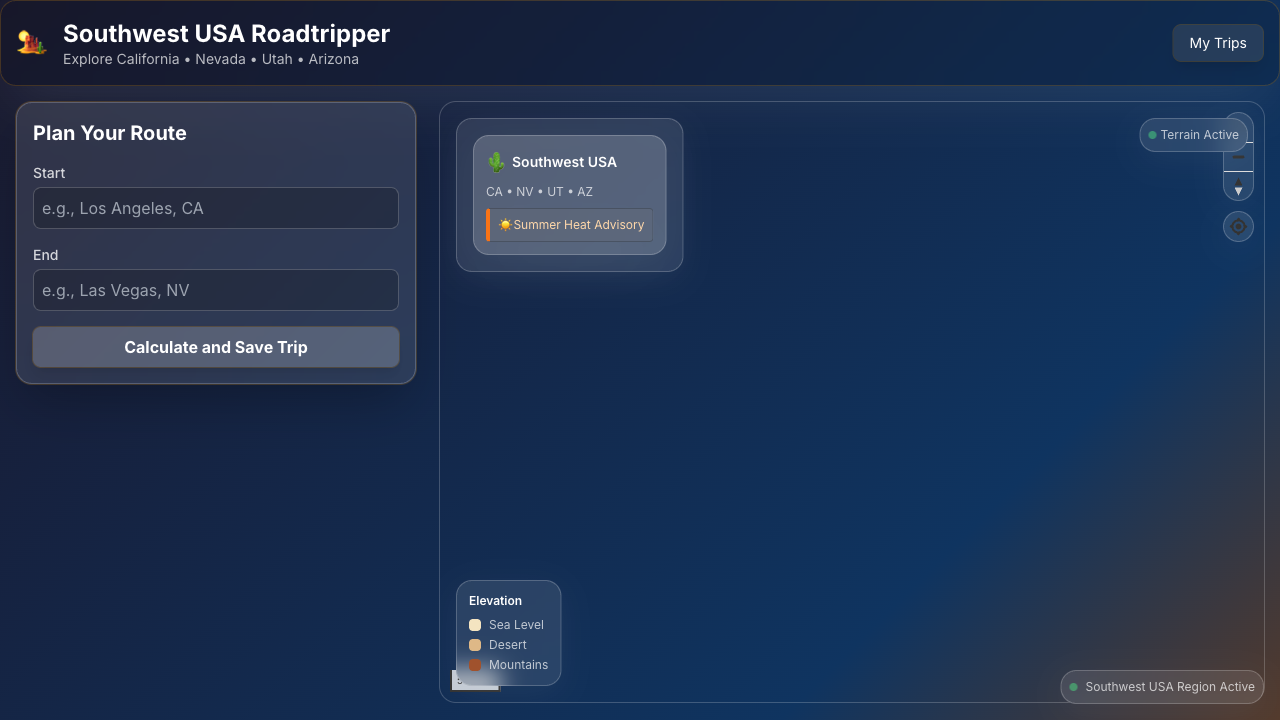
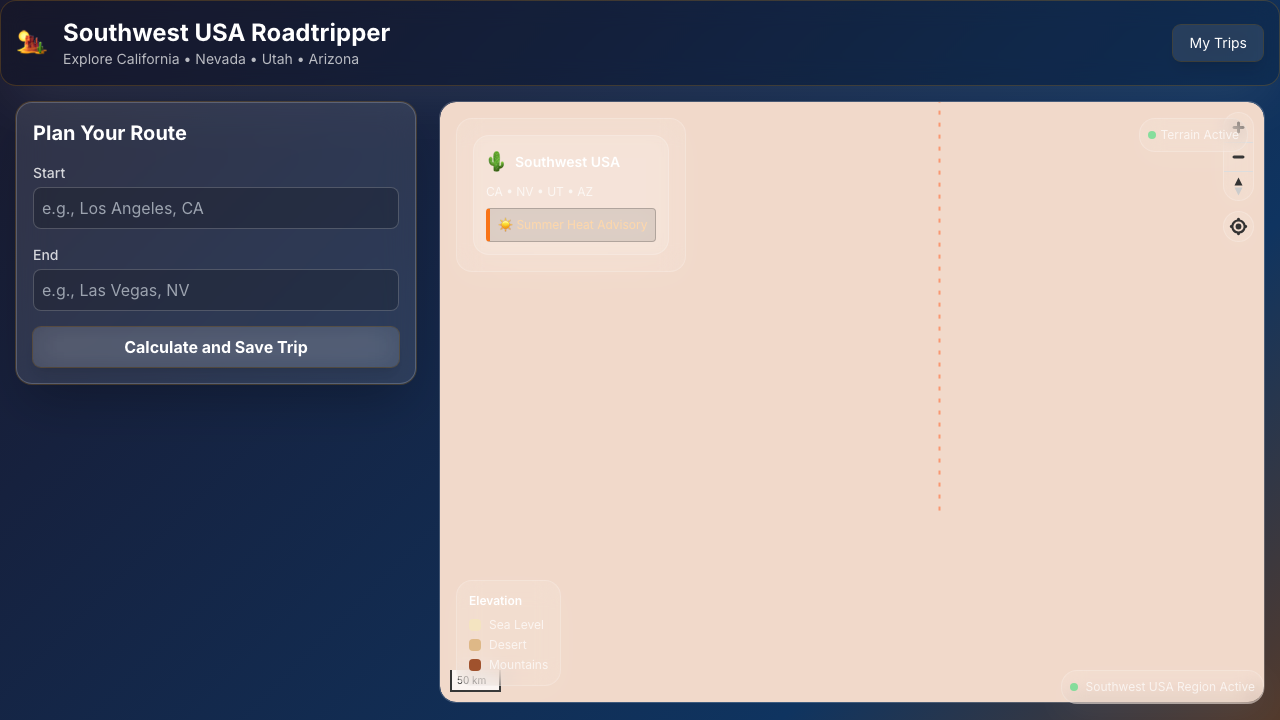
fix(map): Resolve MapLibre compatibility and rendering issues

diff --git a/src/lib/components/SouthwestMap.svelte b/src/lib/components/SouthwestMap.svelte
@@ -37,6 +37,42 @@
   
   // Get current seasonal configuration
   const seasonalConfig = getSeasonalConfig(new Date().getMonth());
+
+  const transformRequest = (url: string, resourceType: 'Style' | 'Source' | 'Tile' | 'Glyphs' | 'SpriteImage' | 'SpriteJSON') => {
+    if (url.startsWith('mapbox://')) {
+        const path = url.split('mapbox://')[1];
+        let transformedUrl = '';
+        const accessToken = config.mapbox.accessToken;
+
+        switch (resourceType) {
+            case 'Style':
+                transformedUrl = `https://api.mapbox.com/styles/v1/${path}`;
+                break;
+            case 'SpriteImage':
+            case 'SpriteJSON':
+                const stylePath = path.replace('/sprites', '');
+                const extension = resourceType === 'SpriteImage' ? '.png' : '.json';
+                transformedUrl = `https://api.mapbox.com/styles/v1${stylePath}/sprite${extension}`;
+                break;
+            case 'Glyphs':
+                transformedUrl = `https://api.mapbox.com/fonts/v1/${path}`;
+                break;
+            case 'Source':
+                 transformedUrl = `https://api.mapbox.com/v4/${path}.json?secure`;
+                 break;
+            case 'Tile':
+                transformedUrl = `https://api.mapbox.com/v4/${path}`;
+                break;
+            default:
+                return { url };
+        }
+
+        return {
+            url: `${transformedUrl}${transformedUrl.includes('?') ? '&' : '?'}access_token=${accessToken}`
+        };
+    }
+    return { url };
+  };
   
   onMount(() => {
     mounted = true;
@@ -62,7 +98,7 @@
     // Initialize MapLibre with Southwest configuration
     try {
       // Use MapLibre demo style to avoid MapBox compatibility issues
-      const styleUrl = 'https://demotiles.maplibre.org/style.json';
+      const styleUrl = SOUTHWEST_MAP_CONFIG.mapbox.outdoors.url;
       
       map = new Map({
         container: mapContainer,
@@ -72,14 +108,14 @@
         minZoom: SOUTHWEST_MAP_CONFIG.defaults.minZoom,
         maxZoom: SOUTHWEST_MAP_CONFIG.defaults.maxZoom,
         maxBounds: SOUTHWEST_MAP_CONFIG.bounds,
-        attributionControl: false
+        attributionControl: false,
+        transformRequest
       });
     } catch (error) {
       console.error('❌ Map initialization failed:', error);
       // Try with fallback style
       map = new Map({
         container: mapContainer,
-        style: 'https://demotiles.maplibre.org/style.json',
         center,
         zoom,
         minZoom: SOUTHWEST_MAP_CONFIG.defaults.minZoom,

diff --git a/src/lib/map/config.ts b/src/lib/map/config.ts
@@ -40,7 +40,7 @@ function getMapboxMapUrl(styleUrl: string): string {
 export const MAPBOX_MAPS_CONFIG = {
   // Outdoors style optimized for terrain visualization
   outdoors: {
-    url: getMapboxMapUrl('mapbox://styles/mapbox/outdoors-v12'),
+    url: getMapboxMapUrl('mapbox://styles/mapbox/streets-v11'),
     description: 'Terrain-focused style perfect for desert and mountain landscapes'
   },
   
